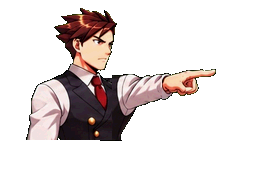
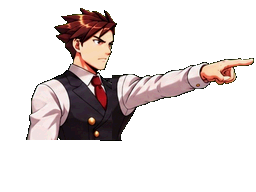
Justo: vuelve el brazo extendido original, con el cuerpo de la opción A
Claude-Session: https://claude.ai/code/session_01Xb94a44mJyTYV8GKKMfxw2

Changed region(s): [[0.625, 0.2812, 1.0, 0.5312]]

diff --git a/prueba-final.html b/prueba-final.html
@@ -5,7 +5,7 @@
 <meta name="viewport" content="width=device-width, initial-scale=1">
 <title>ACTA CERO — Prueba del final</title>
 <link href="https://fonts.googleapis.com/css2?family=Bebas+Neue&family=Pixelify+Sans:wght@400;700&display=swap" rel="stylesheet">
-<link rel="stylesheet" href="css/style.css?v=91">
+<link rel="stylesheet" href="css/style.css?v=92">
 </head>
 <body>
 <div id="ds">
@@ -50,16 +50,16 @@
     <div class="hint">Activa el sonido · toca la pantalla de abajo para avanzar</div>
   </div>
 </div>
-<script src="js/casos.js?v=91"></script>
-<script src="casos/caso1.js?v=91"></script>
-<script src="casos/caso2.js?v=91"></script>
-<script src="js/audio.js?v=91"></script>
-<script src="js/sprites.js?v=91"></script>
-<script src="assets/hd/atlas.js?v=91"></script>
-<script src="js/assets.js?v=91"></script>
-<script src="js/engine.js?v=91"></script>
-<script src="js/investigacion.js?v=91"></script>
-<script src="js/musica.js?v=91"></script>
+<script src="js/casos.js?v=92"></script>
+<script src="casos/caso1.js?v=92"></script>
+<script src="casos/caso2.js?v=92"></script>
+<script src="js/audio.js?v=92"></script>
+<script src="js/sprites.js?v=92"></script>
+<script src="assets/hd/atlas.js?v=92"></script>
+<script src="js/assets.js?v=92"></script>
+<script src="js/engine.js?v=92"></script>
+<script src="js/investigacion.js?v=92"></script>
+<script src="js/musica.js?v=92"></script>
 <script>
 /* Versión de prueba: salta directo al veredicto y la escena final del Caso 1. No toca la partida guardada. */
 saveGame=function(){ return true; }; clearSave=function(){};

diff --git a/index.html b/index.html
@@ -5,7 +5,7 @@
 <meta name="viewport" content="width=device-width, initial-scale=1">
 <title>ACTA CERO</title>
 <link href="https://fonts.googleapis.com/css2?family=Bebas+Neue&family=Pixelify+Sans:wght@400;700&display=swap" rel="stylesheet">
-<link rel="stylesheet" href="css/style.css?v=91">
+<link rel="stylesheet" href="css/style.css?v=92">
 </head>
 <body>
 <div id="ds">
@@ -48,15 +48,15 @@
     <div class="hint">Activa el sonido · toca la pantalla de abajo para avanzar</div>
   </div>
 </div>
-<script src="js/casos.js?v=91"></script>
-<script src="casos/caso1.js?v=91"></script>
-<script src="casos/caso2.js?v=91"></script>
-<script src="js/audio.js?v=91"></script>
-<script src="js/sprites.js?v=91"></script>
-<script src="assets/hd/atlas.js?v=91"></script>
-<script src="js/assets.js?v=91"></script>
-<script src="js/engine.js?v=91"></script>
-<script src="js/investigacion.js?v=91"></script>
-<script src="js/musica.js?v=91"></script>
+<script src="js/casos.js?v=92"></script>
+<script src="casos/caso1.js?v=92"></script>
+<script src="casos/caso2.js?v=92"></script>
+<script src="js/audio.js?v=92"></script>
+<script src="js/sprites.js?v=92"></script>
+<script src="assets/hd/atlas.js?v=92"></script>
+<script src="js/assets.js?v=92"></script>
+<script src="js/engine.js?v=92"></script>
+<script src="js/investigacion.js?v=92"></script>
+<script src="js/musica.js?v=92"></script>
 </body>
 </html>

diff --git a/js/engine.js b/js/engine.js
@@ -824,7 +824,7 @@ function renderSprite(){
 /* Animaciones de entrada/salida de una pose (cuadros sueltos de ART que se pasan antes de quedar en la pose).
    Justo: levanta el brazo al apuntar y lo baja al terminar; se pone los lentes y toma el papel. */
 const TRANS={ ines:{
-  point:{in:["ap2","ap3","ap4","ap5"], out:["ap13","ap14","ap15","ap16"], ms:55},   // el brazo de «point» se acortó: la animación no pasa de ese largo
+  point:{in:["ap2","ap3","ap4","ap5","ap6","ap7","ap8"], out:["ap12","ap13","ap14","ap15","ap16"], ms:45},
   papel:{in:["ld1","ld2","ld3","ld4"], out:["ld4","ld3","ld2","ld1"], ms:170},
   papelThink:{in:["ld1","ld2","ld3","ld4"], out:["ld4","ld3","ld2","ld1"], ms:170} }};
 const RAW={}; function rawImg(who,k){ const key=who+"/"+k; if(!RAW[key] && String(ART[who][k]).startsWith("atlas:")) RAW[key]=atlasFrame(ART[who][k]);
